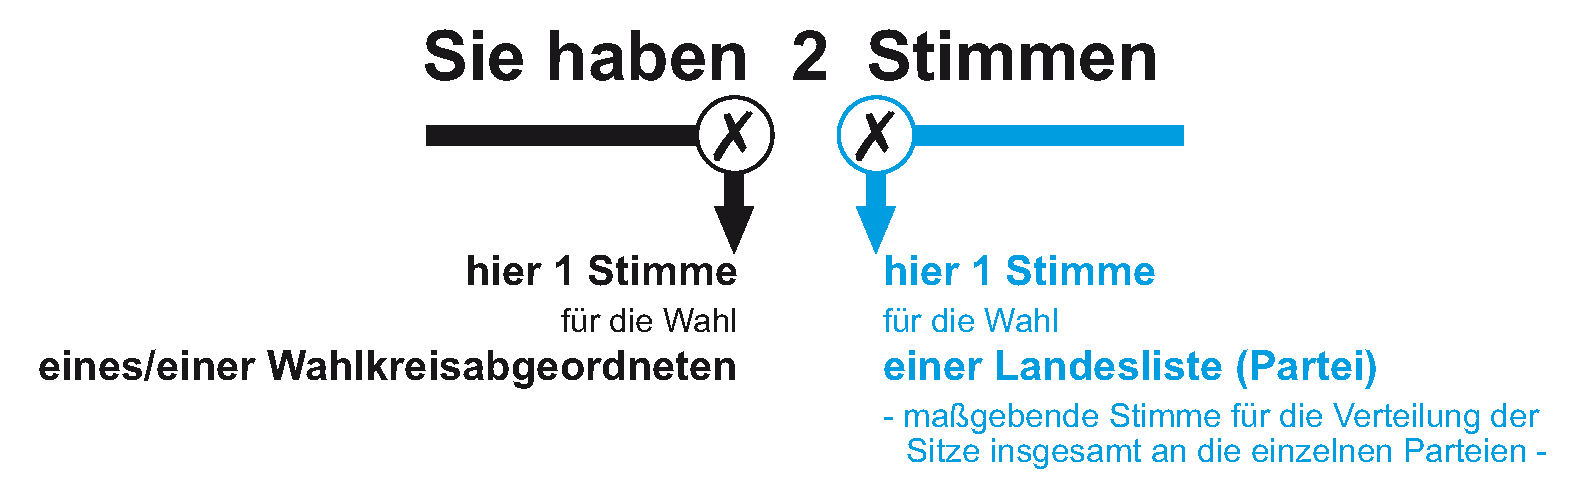
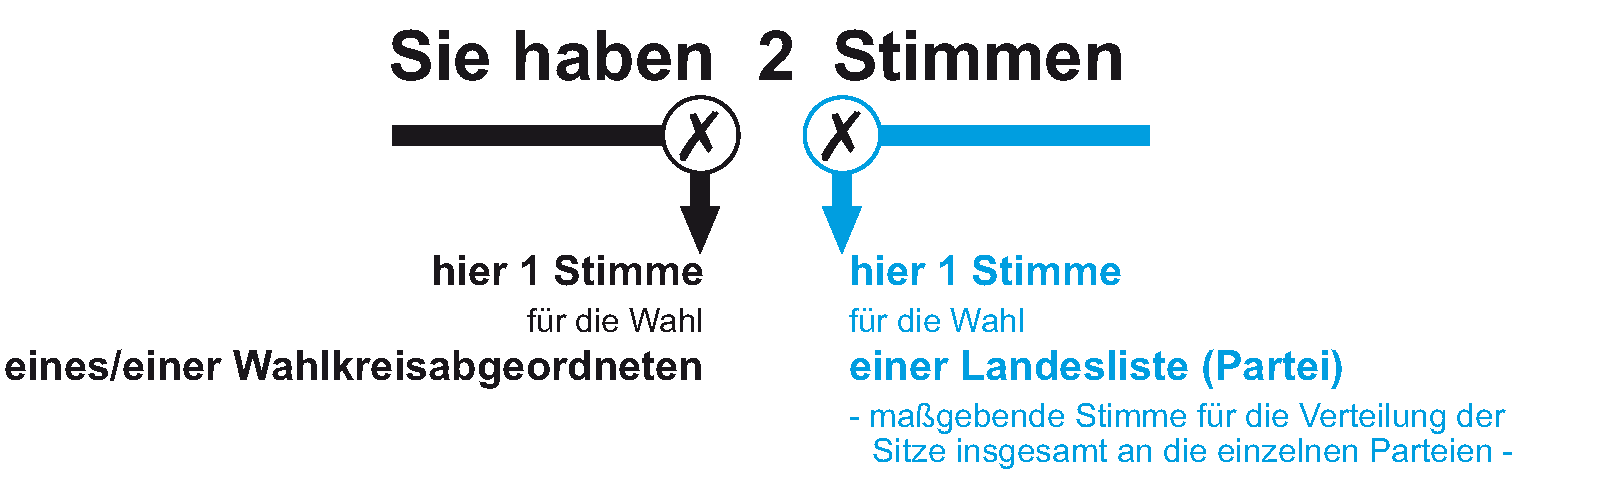
design the table (beta)

diff --git a/source/WIS/app/views/constituencyballot.scala.html b/source/WIS/app/views/constituencyballot.scala.html
@@ -3,33 +3,41 @@
 @main(title){
 <center>
 	<div>
-		<img width="800px" src='@routes.Assets.at("images/ballot_header.png")' />
+		<img id="img-header" src='@routes.Assets.at("images/ballot_header.png")' />
 		<form action="" method="POST">
-			<table>
+			<table id="ballot-table">
+				<tr id="header1">
+					<th colspan="3" id="header1-l">Erststimme</th>
+					<th colspan="4" id="header1-r">Zweitstimme</th>
+				</tr>
+				<tr id="header2">
+					<th class="col-ll"></th>
+					<th>Name</th>
+					<th class="col-lr">Partei</th>
+					<th class="col-rl"></th>
+					<th colspan="2">Partei</th>
+					<th class="col-rr">Listenkandidaten</th>
+				</tr>
 				@for(ballotEntry <- ballotEntries) {
 				<tr>
-					<th colspan="2">Erststimme</th>
-					<th colspan="5">Zweitstimme</th>
-				</tr>
-				<tr>
-					<th></th>
-					<th>Name</th>
-					<th>Partei</th>
-					<th></th>
-					<th colspan="2">Partei</th>
-					<th>Listenkandidaten</th>
-				</tr>
-				<tr>
-					<td><input type="radio" name="candidate" value="@ballotEntry.getCandidateId()"></td>
+					<td class="col-ll"><input type="radio" name="candidate" value="@ballotEntry.getCandidateId()"></td>
 					<td>@ballotEntry.getCandidateName()</td>
-					<td>@ballotEntry.getCandidateParty()</td>
-					<td><input type="radio" name="party" value="@ballotEntry.getPartyId()"></td>
+					<td class="col-lr">@ballotEntry.getCandidateParty()</td>
+					<td class="col-rl"><input type="radio" name="party" value="@ballotEntry.getPartyId()"></td>
 					<td>@ballotEntry.getPartyShortName()</td>
 					<td>@ballotEntry.getPartyFullName()</td>
-					<td>@ballotEntry.getListCandidateNames()</td>
+					<td class="col-rr">@ballotEntry.getListCandidateNames()</td>
 				</tr>
 				}
+				<tr>
+					<td class="col-ll"><input type="radio" name="candidate" value="-1" checked></td>
+					<td colspan="2" class="col-lr">Keinen Direktkandidaten wählen</td>
+					<td class="col-rl"><input type="radio" name="party" value="-1" checked></td>
+					<td colspan="3" class="col-rr">Keine Partei wählen</td>
+				</tr>
 			</table>
+			<br><br>
+			<input type="submit" value="Absenden">
 		</form>
 	</div>
 </center>

diff --git a/source/WIS/public/stylesheets/main.css b/source/WIS/public/stylesheets/main.css
@@ -83,3 +83,43 @@ div#content {
 div#footer {
 	text-align: right;
 }
+
+#img-header {
+	width: 800px;
+	left: 0px;
+	margin-bottom: 50px;
+}
+
+/*#ballot-table td {
+	border: solid thin;
+}*/
+
+.col-ll {
+	border-left: #000000 solid thin;
+}
+
+.col-lr {
+	border-right: #000000 solid thin;
+}
+
+.col-rl {
+	border-left: #009ee0 solid thin;
+}
+
+.col-rr {
+	border-right: #009ee0 solid thin;
+}
+
+#header1-l {
+	width: 50%;
+	border-left: #000000 solid thin;
+	border-top: #000000 solid thin;
+	border-right: #000000 solid thin;
+}
+
+#header1-r {
+	width: 50%;
+	border-left: #009ee0 solid thin;
+	border-top: #009ee0 solid thin;
+	border-right: #009ee0 solid thin;
+}
